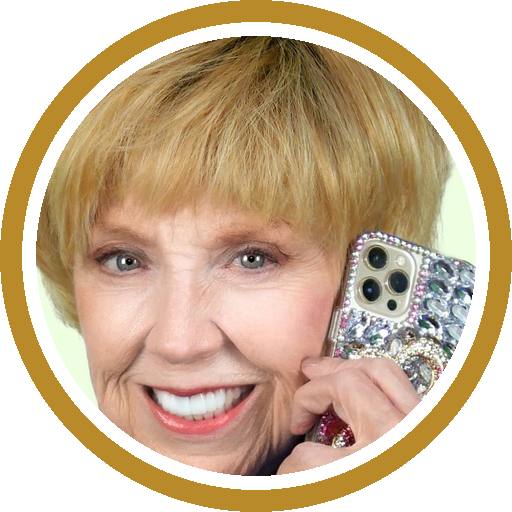
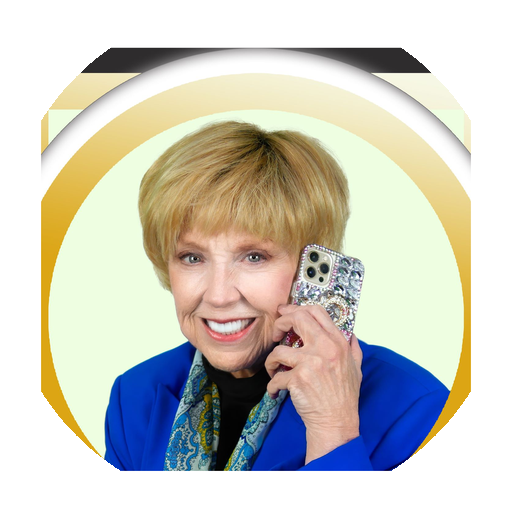
Show Dr. Jan's full head and keep the site on HTTPS.
The circular portrait and favicon were cropped too tightly. The new crop keeps her whole head inside the circle. Homepage schema now uses the www HTTPS origin, self-serving star ratings are no longer marked up, and property links use the HTTPS RealScout address.

diff --git a/components/SchemaScript.tsx b/components/SchemaScript.tsx
@@ -98,58 +98,17 @@ export function FAQSchema({
 }
 
 /**
- * Helper component for Review/Rating schema
- * Used on pages with testimonials
+ * Business identity only. Google does not show review stars for ratings
+ * a business places on its own site, so this does not emit Review markup.
  */
-export function ReviewSchema({
-  reviews,
-  aggregateRating,
-}: {
-  reviews?: Array<{
-    author: string;
-    rating: number;
-    text: string;
-    date?: string;
-  }>;
-  aggregateRating?: {
-    ratingValue: number;
-    reviewCount: number;
-  };
-}) {
+export function ReviewSchema() {
   const schema: Record<string, unknown> = {
     "@context": "https://schema.org",
     "@type": "RealEstateAgent",
     "@id": `${siteConfig.url}#organization`,
     name: "Dr. Jan Duffy - Berkshire Hathaway HomeServices Nevada Properties",
+    url: siteConfig.url,
   };
-
-  if (aggregateRating) {
-    schema.aggregateRating = {
-      "@type": "AggregateRating",
-      ratingValue: aggregateRating.ratingValue.toString(),
-      reviewCount: aggregateRating.reviewCount.toString(),
-      bestRating: "5",
-      worstRating: "1",
-    };
-  }
-
-  if (reviews && reviews.length > 0) {
-    schema.review = reviews.map((review) => ({
-      "@type": "Review",
-      author: {
-        "@type": "Person",
-        name: review.author,
-      },
-      reviewRating: {
-        "@type": "Rating",
-        ratingValue: review.rating.toString(),
-        bestRating: "5",
-        worstRating: "1",
-      },
-      reviewBody: review.text,
-      datePublished: review.date || new Date().toISOString().split("T")[0],
-    }));
-  }
 
   return <SchemaScript schema={schema} id="review-schema" />;
 }

diff --git a/components/layouts/Footer.tsx b/components/layouts/Footer.tsx
@@ -27,7 +27,7 @@ export default function Footer() {
             </p>
             <div className="flex space-x-4">
               <a
-                href="http://drjanduffy.realscout.com/"
+                href="https://drjanduffy.realscout.com/"
                 target="_blank"
                 rel="noopener noreferrer"
                 className="text-slate-400 hover:text-white transition-colors"
@@ -36,7 +36,7 @@ export default function Footer() {
                 <Facebook className="h-5 w-5" />
               </a>
               <a
-                href="http://drjanduffy.realscout.com/"
+                href="https://drjanduffy.realscout.com/"
                 target="_blank"
                 rel="noopener noreferrer"
                 className="text-slate-400 hover:text-white transition-colors"
@@ -45,7 +45,7 @@ export default function Footer() {
                 <Instagram className="h-5 w-5" />
               </a>
               <a
-                href="http://drjanduffy.realscout.com/"
+                href="https://drjanduffy.realscout.com/"
                 target="_blank"
                 rel="noopener noreferrer"
                 className="text-slate-400 hover:text-white transition-colors"
@@ -62,7 +62,7 @@ export default function Footer() {
             <ul className="space-y-2">
               <li>
                 <a
-                  href="http://drjanduffy.realscout.com/"
+                  href="https://drjanduffy.realscout.com/"
                   target="_blank"
                   rel="noopener noreferrer"
                   className="text-slate-300 hover:text-white transition-colors text-sm"

diff --git a/lib/schema.ts b/lib/schema.ts
@@ -6,7 +6,7 @@
  * @see https://developers.google.com/search/docs/appearance/structured-data
  */
 
-import { siteConfig, agentInfo, officeInfo, agentStats } from "./site-config";
+import { siteConfig, agentInfo, officeInfo } from "./site-config";
 
 // ============================================================================
 // Types
@@ -177,13 +177,6 @@ export function generateRealEstateAgentSchema() {
         sameAs: "https://en.wikipedia.org/wiki/Berkshire_Hathaway_HomeServices",
       },
     },
-    aggregateRating: {
-      "@type": "AggregateRating",
-      ratingValue: agentStats.averageRating.toString(),
-      reviewCount: agentStats.reviewCount.toString(),
-      bestRating: "5",
-      worstRating: "1",
-    },
     knowsAbout: [
       "Las Vegas real estate",
       "Henderson homes",
@@ -316,10 +309,6 @@ export function generateReviewSchema(reviews: ReviewItem[]) {
     "@type": "RealEstateAgent",
     "@id": `${BASE_URL}#organization`,
     name: "Dr. Jan Duffy - Berkshire Hathaway HomeServices Nevada Properties",
-    aggregateRating: generateAggregateRatingSchema(
-      agentStats.averageRating,
-      agentStats.reviewCount
-    ),
     review: reviews.map((review) => ({
       "@type": "Review",
       author: {

diff --git a/app/page.tsx b/app/page.tsx
@@ -9,6 +9,8 @@ import Image from "next/image";
 import { Phone, Home as HomeIcon, TrendingUp, Shield, Users } from "lucide-react";
 import { grandParkImages } from "@/lib/grand-park-media";
 import { DrJanPortrait } from "@/components/brand/DrJanPortrait";
+import { headers } from "next/headers";
+import { getPreferredOrigin } from "@/lib/canonical";
 import { getPageDomainConfig } from "@/lib/get-domain-config";
 import { getFaqsForDomain } from "@/lib/faq-config";
 
@@ -66,7 +68,7 @@ export default async function Home() {
     "@context": "https://schema.org",
     "@type": "RealEstateAgent",
     name: `Dr. Jan Duffy - ${config.neighborhood} Real Estate`,
-    url: `https://${config.domain !== "default" ? config.domain : "www.grandparkvillagehomes.com"}`,
+    url: getPreferredOrigin(headers().get("x-domain")),
     telephone: "+17022221964",
     address: {
       "@type": "PostalAddress",
@@ -74,11 +76,6 @@ export default async function Home() {
       addressLocality: "Las Vegas",
       addressRegion: "NV",
       postalCode: "89134",
-    },
-    aggregateRating: {
-      "@type": "AggregateRating",
-      ratingValue: "4.9",
-      reviewCount: "200",
     },
   };
 

diff --git a/app/about/page.tsx b/app/about/page.tsx
@@ -264,7 +264,7 @@ export default function AboutPage() {
                       <ArrowRight className="h-4 w-4 mr-2 text-blue-600" />
                       Free Home Valuation
                     </Link>
-                    <a href="http://drjanduffy.realscout.com/" target="_blank" rel="noopener noreferrer" className="flex items-center text-slate-700 hover:text-blue-600">
+                    <a href="https://drjanduffy.realscout.com/" target="_blank" rel="noopener noreferrer" className="flex items-center text-slate-700 hover:text-blue-600">
                       <ArrowRight className="h-4 w-4 mr-2 text-blue-600" />
                       Browse Listings
                     </a>

diff --git a/components/sections/CTASection.tsx b/components/sections/CTASection.tsx
@@ -17,7 +17,7 @@ export default function CTASection() {
 
           <div className="flex flex-col sm:flex-row gap-4 justify-center items-center mb-8">
             <Button asChild size="lg" className="bg-white text-blue-600 hover:bg-blue-50">
-              <a href="http://drjanduffy.realscout.com/" target="_blank" rel="noopener noreferrer" className="flex items-center gap-2">
+              <a href="https://drjanduffy.realscout.com/" target="_blank" rel="noopener noreferrer" className="flex items-center gap-2">
                 <Home className="h-5 w-5" />
                 Browse Properties
               </a>

diff --git a/app/55-plus-communities/page.tsx b/app/55-plus-communities/page.tsx
@@ -374,7 +374,7 @@ export default function FiftyFiveCommunitiesPage() {
                 Call (702) 500-1942
               </a>
               <a
-                href="http://drjanduffy.realscout.com/"
+                href="https://drjanduffy.realscout.com/"
                 target="_blank"
                 rel="noopener noreferrer"
                 className="inline-flex items-center justify-center bg-slate-100 text-slate-900 px-8 py-4 rounded-md font-bold text-lg hover:bg-slate-200 transition-colors"

diff --git a/app/listings/[id]/page.tsx b/app/listings/[id]/page.tsx
@@ -51,7 +51,7 @@ export default async function PropertyPage({ params }: PropertyPageProps) {
               </li>
               <li>/</li>
               <li>
-                <a href="http://drjanduffy.realscout.com/" target="_blank" rel="noopener noreferrer" className="hover:text-blue-600">
+                <a href="https://drjanduffy.realscout.com/" target="_blank" rel="noopener noreferrer" className="hover:text-blue-600">
                   Properties
                 </a>
               </li>

diff --git a/components/layouts/Navbar.tsx b/components/layouts/Navbar.tsx
@@ -25,7 +25,7 @@ export default function Navbar() {
 
   const mainNavLinks = [
     { href: "/", label: "Home", external: false },
-    { href: "http://drjanduffy.realscout.com/", label: "Properties", external: true },
+    { href: "https://drjanduffy.realscout.com/", label: "Properties", external: true },
     { href: "/neighborhoods", label: "Neighborhoods", external: false },
     { href: "/about", label: "About", external: false },
     { href: "/contact", label: "Contact", external: false },

diff --git a/components/sections/FeaturedProperties.tsx b/components/sections/FeaturedProperties.tsx
@@ -102,7 +102,7 @@ export default function FeaturedProperties() {
             </p>
           </div>
           <Button asChild variant="outline" className="mt-4 md:mt-0">
-            <a href="http://drjanduffy.realscout.com/" target="_blank" rel="noopener noreferrer">View All Properties</a>
+            <a href="https://drjanduffy.realscout.com/" target="_blank" rel="noopener noreferrer">View All Properties</a>
           </Button>
         </div>
 

diff --git a/lib/gbp-schema.ts b/lib/gbp-schema.ts
@@ -253,12 +253,6 @@ export function generateLocalBusinessSchema() {
         },
       })),
     },
-    aggregateRating: {
-      "@type": "AggregateRating",
-      ratingValue: "4.9",
-      reviewCount: "200",
-      bestRating: "5",
-    },
     sameAs: [
       "https://www.facebook.com/drjanduffy",
       "https://www.instagram.com/drjanduffy",
